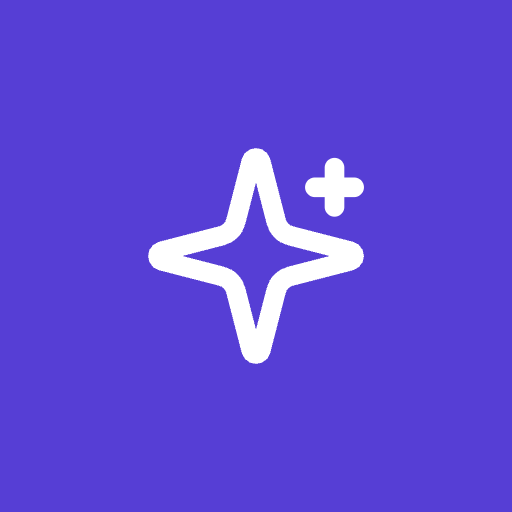
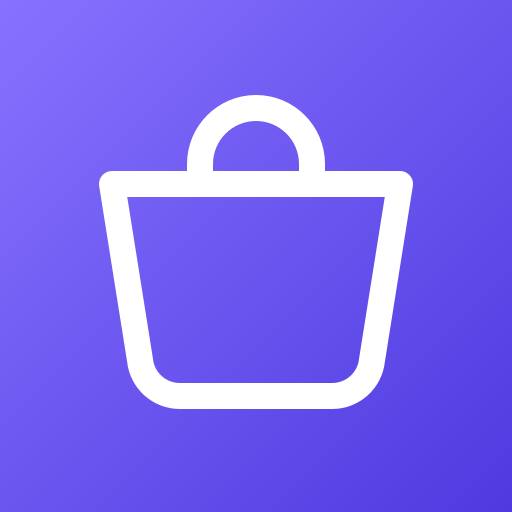
Apply SeeCen purple bag branding and refresh product imagery

diff --git a/index.html b/index.html
@@ -9,7 +9,7 @@
       content="SeeCen brings orders, inventory, shipping, and finances into one open-source workspace. Explore a sample store or build with the source."
     />
     <meta name="author" content="SeeCen" />
-    <meta name="theme-color" content="#5a44d6" />
+    <meta name="theme-color" content="#563ed5" />
 
     <meta property="og:type" content="website" />
     <meta property="og:url" content="https://seecen.seekerscentral.com/" />
@@ -18,7 +18,7 @@
       property="og:description"
       content="Orders, inventory, shipping, returns, finance, analytics, and an AI coach in one open-source workspace. Try the live demo — no signup, no API keys."
     />
-    <meta property="og:image" content="https://seecen.seekerscentral.com/landing/v2/hub-desktop.png" />
+    <meta property="og:image" content="https://seecen.seekerscentral.com/landing/v3/hub-desktop.png" />
 
     <meta name="twitter:card" content="summary_large_image" />
     <meta name="twitter:title" content="SeeCen | Open-source seller command center" />
@@ -26,9 +26,9 @@
       name="twitter:description"
       content="Orders, inventory, shipping, returns, finance, analytics, and an AI coach in one open-source workspace. Try the live demo — no signup, no API keys."
     />
-    <meta name="twitter:image" content="https://seecen.seekerscentral.com/landing/v2/hub-desktop.png" />
-    <link rel="icon" type="image/svg+xml" href="/favicon.svg" />
-    <link rel="apple-touch-icon" href="/apple-touch-icon.png" />
+    <meta name="twitter:image" content="https://seecen.seekerscentral.com/landing/v3/hub-desktop.png" />
+    <link rel="icon" type="image/svg+xml" href="/brand/seecen-mark-v1.svg" />
+    <link rel="apple-touch-icon" href="/brand/apple-touch-icon-v1.png" />
 
     <script type="application/ld+json">
       {
@@ -38,7 +38,7 @@
         "applicationCategory": "BusinessApplication",
         "operatingSystem": "Web",
         "url": "https://seecen.seekerscentral.com/",
-        "image": "https://seecen.seekerscentral.com/landing/v2/hub-desktop.png",
+        "image": "https://seecen.seekerscentral.com/landing/v3/hub-desktop.png",
         "description": "Open-source seller command center: orders, inventory, shipping, returns, finance, analytics, and an AI coach in one workspace.",
         "offers": { "@type": "Offer", "price": "0", "priceCurrency": "USD" },
         "license": "https://github.com/Draven047/SeeCen/blob/main/LICENSE"

diff --git a/src/components/layout/SellerOSHeader.tsx b/src/components/layout/SellerOSHeader.tsx
@@ -7,6 +7,7 @@ import { DemoModeControl } from './DemoModeControl';
 import { CommandPalette } from './CommandPalette';
 import { HelpSheet } from './HelpSheet';
 import { brand } from '@/config/brand';
+import { BrandMark } from '@/components/BrandMark';
 import { useIsMobile } from '@/hooks/use-mobile';
 import { cn } from '@/lib/utils';
 import { Menu, ShoppingBag } from 'lucide-react';
@@ -59,14 +60,15 @@ export function SellerOSHeader() {
   return (
     <header className="sticky top-0 z-30 flex h-[76px] items-center justify-between bg-[#f6f7f3]/90 px-3 backdrop-blur-xl md:px-6">
       {/* Left: Store info */}
-      <div className="flex items-center gap-2 min-w-0">
+      <div className="flex flex-1 items-center gap-2 min-w-0 pr-2">
         {isMobile ? (
           <button
             type="button"
             onClick={() => setStoreStatusOpen(true)}
             aria-label="Open store status"
-            className="flex min-h-[44px] items-center gap-2 rounded-full border border-black/[0.04] bg-white px-3 shadow-[0_14px_36px_-30px_rgba(15,23,42,0.65)]"
+            className="flex min-h-[44px] min-w-0 items-center gap-2 rounded-full border border-black/[0.04] bg-white pl-1.5 pr-3 shadow-[0_14px_36px_-30px_rgba(15,23,42,0.65)]"
           >
+            <BrandMark className="h-8 w-8 min-w-8" />
             <div className="flex items-center gap-1.5 min-w-0">
               <span className={cn(
                 'w-2 h-2 rounded-full shrink-0',
@@ -111,7 +113,7 @@ export function SellerOSHeader() {
       </div>
 
       {/* Right: actions */}
-      <div className="flex items-center gap-1.5">
+      <div className="flex shrink-0 items-center gap-1.5">
         {/* Pending orders badge */}
         {pendingOrders > 0 && (
           <div className="relative flex h-11 w-11 animate-pulse items-center justify-center rounded-full bg-white text-[#17191c] shadow-[0_14px_36px_-30px_rgba(15,23,42,0.65)]">
@@ -121,9 +123,9 @@ export function SellerOSHeader() {
             </span>
           </div>
         )}
-        <CommandPalette />
-        <HelpSheet />
-        <DemoModeControl />
+        {!isMobile && <CommandPalette />}
+        {!isMobile && <HelpSheet />}
+        <DemoModeControl compact={isMobile} />
         <NotificationsDropdown />
 
         {/* More menu — mobile only */}

diff --git a/src/components/layout/SellerOSSidebar.tsx b/src/components/layout/SellerOSSidebar.tsx
@@ -2,7 +2,7 @@ import { NavLink, useLocation } from 'react-router-dom';
 import { useTranslation } from 'react-i18next';
 import {
   ShoppingCart, Boxes, LayoutGrid, MessageSquareWarning, IndianRupee,
-  TrendingUp, Link2, UserCog, Store, Settings, ShoppingBag,
+  TrendingUp, Link2, UserCog, Store, Settings,
   ChevronLeft, BarChart3, Bot, UserCheck, Package, Truck, Users,
   RotateCcw, PackageCheck, AlertTriangle,
 } from 'lucide-react';
@@ -14,6 +14,7 @@ import { Tooltip, TooltipContent, TooltipTrigger } from '@/components/ui/tooltip
 import { useEffect, useState } from 'react';
 import { supabase } from '@/integrations/supabase/client';
 import { brand } from '@/config/brand';
+import { BrandMark } from '@/components/BrandMark';
 
 interface NavItem {
   icon: React.ElementType;
@@ -159,9 +160,9 @@ export function SellerOSSidebar() {
                 type="button"
                 onClick={toggle}
                 aria-label="Expand navigation"
-                className="flex h-11 w-11 items-center justify-center rounded-[18px] bg-[#17191c] text-white shadow-[0_14px_28px_-22px_rgba(0,0,0,0.9)] transition-colors hover:bg-[#2b2f35]"
+                className="flex h-11 w-11 items-center justify-center rounded-lg focus-visible:outline focus-visible:outline-2 focus-visible:outline-offset-4 focus-visible:outline-primary"
               >
-                <ShoppingBag className="h-5 w-5" />
+                <BrandMark className="h-11 w-11" />
               </button>
             </TooltipTrigger>
             <TooltipContent side="right">Expand</TooltipContent>
@@ -169,9 +170,7 @@ export function SellerOSSidebar() {
         ) : (
           <>
             <div className="flex min-w-0 items-center gap-3">
-              <div className="flex h-11 w-11 shrink-0 items-center justify-center rounded-[18px] bg-[#17191c] text-white shadow-[0_14px_28px_-22px_rgba(0,0,0,0.9)]">
-              <ShoppingBag className="h-5 w-5" />
-              </div>
+              <BrandMark className="h-11 w-11" />
               <div className="min-w-0">
                 <p className="truncate text-[15px] font-black leading-5 tracking-[-0.03em] text-[#17191c]">{brand.name}</p>
                 <p className="truncate text-[10px] font-bold uppercase tracking-[0.18em] text-[#9aa0a8]">{brand.tagline}</p>

diff --git a/src/components/layout/Sidebar.tsx b/src/components/layout/Sidebar.tsx
@@ -2,7 +2,7 @@ import { NavLink, useLocation } from 'react-router-dom';
 import {
   LayoutDashboard, ShoppingCart, Truck, Package, Boxes,
   RotateCcw, Users, UserCog, BarChart3, DollarSign, Store,
-  Link2, Settings, LogOut, ShoppingBag, ChevronLeft, PackageCheck,
+  Link2, Settings, LogOut, ChevronLeft, PackageCheck,
   Palette, ChevronDown, Bot, UserCheck,
 } from 'lucide-react';
 import { useAuth } from '@/contexts/AuthContext';
@@ -12,6 +12,7 @@ import { cn } from '@/lib/utils';
 import { Tooltip, TooltipContent, TooltipTrigger } from '@/components/ui/tooltip';
 import { useState, useEffect } from 'react';
 import { supabase } from '@/integrations/supabase/client';
+import { BrandMark } from '@/components/BrandMark';
 
 interface NavItem {
   icon: React.ElementType;
@@ -191,8 +192,8 @@ export function Sidebar() {
         {collapsed ? (
           <Tooltip delayDuration={0}>
             <TooltipTrigger asChild>
-              <button onClick={toggle} className="flex h-8 w-8 items-center justify-center rounded-lg bg-primary">
-                <ShoppingBag className="h-4 w-4 text-primary-foreground" />
+              <button onClick={toggle} aria-label="Expand sidebar" className="flex h-8 w-8 items-center justify-center rounded-lg">
+                <BrandMark className="h-8 w-8" />
               </button>
             </TooltipTrigger>
             <TooltipContent side="right">Expand sidebar</TooltipContent>
@@ -200,9 +201,7 @@ export function Sidebar() {
         ) : (
           <div className="flex flex-1 items-center justify-between">
             <div className="flex items-center gap-2.5">
-              <div className="flex h-8 w-8 items-center justify-center rounded-lg bg-primary">
-                <ShoppingBag className="h-4 w-4 text-primary-foreground" />
-              </div>
+              <BrandMark className="h-8 w-8" />
               <div>
                 <h1 className="text-sm font-bold text-foreground leading-none">SeeCen</h1>
                 <p className="text-[10px] text-sidebar-muted mt-0.5">SellerOS</p>

diff --git a/tests/brand.test.tsx b/tests/brand.test.tsx
@@ -1,0 +1,34 @@
+import { describe, expect, test } from 'bun:test';
+import { readFileSync } from 'node:fs';
+import { renderToStaticMarkup } from 'react-dom/server';
+import { BrandMark } from '../src/components/BrandMark';
+import { brand } from '../src/config/brand';
+
+describe('SeeCen brand identity', () => {
+  test('shared mark uses the reference purple gradient and white bag', () => {
+    const svg = readFileSync(new URL(`../public${brand.logo}`, import.meta.url), 'utf8');
+    expect(svg).toContain('#8772ff');
+    expect(svg).toContain('#4e3adf');
+    expect(svg).toContain('stroke="#fff"');
+    expect(svg).toContain('viewBox="0 0 128 128"');
+    expect(readFileSync(new URL('../public/favicon.svg', import.meta.url), 'utf8')).toBe(svg);
+  });
+
+  test('decorative and standalone marks have appropriate accessible names', () => {
+    expect(renderToStaticMarkup(<BrandMark />)).toContain('alt=""');
+    expect(renderToStaticMarkup(<BrandMark labelled />)).toContain(`alt="${brand.name} logo"`);
+    expect(renderToStaticMarkup(<BrandMark />)).toContain(`src="${brand.logo}"`);
+  });
+
+  test('installable icons have the expected dimensions', () => {
+    for (const [name, size] of [['apple-touch-icon', 180], ['pwa-192', 192], ['pwa-512', 512], ['pwa-maskable-512', 512]] as const) {
+      const png = readFileSync(new URL(`../public/brand/${name}-v1.png`, import.meta.url));
+      expect(png.subarray(1, 4).toString()).toBe('PNG');
+      expect(png.readUInt32BE(16)).toBe(size);
+      expect(png.readUInt32BE(20)).toBe(size);
+    }
+    const html = readFileSync(new URL('../index.html', import.meta.url), 'utf8');
+    expect(html).toContain(`href="${brand.logo}"`);
+    expect(html).toContain('/brand/apple-touch-icon-v1.png');
+  });
+});

diff --git a/vite.config.ts b/vite.config.ts
@@ -30,10 +30,10 @@ export default defineConfig(() => ({
         start_url: "/demo/dashboard",
         scope: "/",
         icons: [
-          { src: "/pwa-192.png", sizes: "192x192", type: "image/png" },
-          { src: "/pwa-512.png", sizes: "512x512", type: "image/png" },
+          { src: "/brand/pwa-192-v1.png", sizes: "192x192", type: "image/png" },
+          { src: "/brand/pwa-512-v1.png", sizes: "512x512", type: "image/png" },
           {
-            src: "/pwa-maskable-512.png",
+            src: "/brand/pwa-maskable-512-v1.png",
             sizes: "512x512",
             type: "image/png",
             purpose: "maskable",
@@ -43,14 +43,14 @@ export default defineConfig(() => ({
       workbox: {
         globPatterns: ["**/*.{js,css,html,svg,png,ico,woff2}"],
         // Landing media and optional 3D must not compete with the first app load.
-        globIgnores: ["**/ProductScene-*.js", "landing/v2/**", "landing-*.png"],
+        globIgnores: ["**/ProductScene-*.js", "landing/**", "landing-*.png"],
         runtimeCaching: [
           {
             urlPattern: ({ url, sameOrigin }) =>
-              sameOrigin && /^\/landing\/v2\/.*\.png$/.test(url.pathname),
+              sameOrigin && /^\/landing\/v3\/.*\.png$/.test(url.pathname),
             handler: "CacheFirst",
             options: {
-              cacheName: "seecen-landing-v2",
+              cacheName: "seecen-landing-v3",
               expiration: { maxEntries: 12, maxAgeSeconds: 30 * 24 * 60 * 60 },
               cacheableResponse: { statuses: [200] },
             },

diff --git a/src/pages/Landing.tsx b/src/pages/Landing.tsx
@@ -8,6 +8,7 @@ import {
   type ReactNode,
 } from "react";
 import { Link } from "react-router-dom";
+import { BrandMark } from "@/components/BrandMark";
 import { motion, useReducedMotion } from "framer-motion";
 import {
   ArrowDown,
@@ -454,6 +455,7 @@ export default function Landing() {
       </a>
       <header className="lp-header">
         <a href="#home" className="lp-brand" aria-label="SeeCen home">
+          <BrandMark className="lp-brand-mark" />
           SeeCen<span>.</span>
         </a>
         <nav className="lp-desktop-nav" aria-label="Landing navigation">
@@ -500,7 +502,7 @@ export default function Landing() {
               </button>
             </SheetTrigger>
             <SheetContent side="right" className="lp-menu">
-              <SheetTitle>SeeCen</SheetTitle>
+              <SheetTitle className="flex items-center gap-3"><BrandMark />SeeCen</SheetTitle>
               <nav aria-label="Mobile landing navigation">
                 {nav.map(([label, href]) => (
                   <SheetClose asChild key={href}>
@@ -691,6 +693,7 @@ export default function Landing() {
       </section>
       <footer className="lp-footer lp-container">
         <a className="lp-brand" href="#home">
+          <BrandMark className="lp-brand-mark" />
           SeeCen<span>.</span>
         </a>
         <p>Open-source seller operations.</p>

diff --git a/src/components/layout/DemoModeControl.tsx b/src/components/layout/DemoModeControl.tsx
@@ -13,7 +13,7 @@ import {
   PopoverTrigger,
 } from '@/components/ui/popover';
 
-export function DemoModeControl() {
+export function DemoModeControl({ compact = false }: { compact?: boolean }) {
   const { t, i18n } = useTranslation();
   const [confirming, setConfirming] = useState(false);
   const fileInputRef = useRef<HTMLInputElement>(null);
@@ -44,10 +44,11 @@ export function DemoModeControl() {
         <button
           type="button"
           aria-label="About demo mode"
-          className="flex min-h-[44px] items-center gap-1.5 rounded-full bg-white px-3.5 text-xs font-bold text-[#563ed5] shadow-[0_14px_36px_-30px_rgba(15,23,42,0.65)] transition-transform hover:scale-[1.02]"
+          title="About demo mode"
+          className={`flex min-h-[44px] items-center gap-1.5 rounded-full bg-white text-xs font-bold text-[#563ed5] shadow-[0_14px_36px_-30px_rgba(15,23,42,0.65)] transition-transform hover:scale-[1.02] ${compact ? 'w-11 justify-center' : 'px-3.5'}`}
         >
           <FlaskConical className="h-4 w-4" />
-          Demo
+          {!compact && 'Demo'}
         </button>
       </PopoverTrigger>
       <PopoverContent align="end" className="w-72 rounded-3xl border-black/[0.06] bg-white p-4 shadow-[0_24px_60px_-30px_rgba(15,23,42,0.45)]">

diff --git a/src/components/onboarding/FirstRunWizard.tsx b/src/components/onboarding/FirstRunWizard.tsx
@@ -1,5 +1,6 @@
 import { useState } from 'react';
-import { ArrowLeft, ArrowRight, Check, Download, Languages, Rocket, Sparkles, Store } from 'lucide-react';
+import { ArrowLeft, ArrowRight, Check, Download, Languages, Rocket, Store } from 'lucide-react';
+import { BrandMark } from '@/components/BrandMark';
 import { isDemoMode, setupMyStore, SETUP_MARKER_KEY } from '@/integrations/supabase/client';
 import { usePwaInstall } from '@/hooks/usePwaInstall';
 import { useTranslation } from 'react-i18next';
@@ -63,9 +64,7 @@ export function FirstRunWizard() {
       <div className="w-full max-w-md rounded-[28px] bg-white p-6 shadow-[0_40px_120px_-40px_rgba(0,0,0,0.8)] sm:p-8">
         {/* Brand mark */}
         <div className="mb-6 flex items-center gap-3">
-          <span className="flex h-11 w-11 items-center justify-center rounded-2xl bg-[#563ed5] text-white shadow-[0_0_26px_rgba(86,62,213,0.35)]">
-            <Sparkles className="h-5 w-5" />
-          </span>
+          <BrandMark className="h-11 w-11" />
           <div>
             <p className="text-base font-bold text-[#17191c]">{brand.name}</p>
             <p className="text-xs font-medium text-[#8b9098]">{t('Your store, on your computer')}</p>

diff --git a/src/components/layout/SellerOSMoreMenu.tsx b/src/components/layout/SellerOSMoreMenu.tsx
@@ -7,6 +7,8 @@ import {
 import { useAuth } from '@/contexts/AuthContext';
 import { StoreSwitcher } from './StoreSwitcher';
 import { cn } from '@/lib/utils';
+import { CommandPalette } from './CommandPalette';
+import { HelpSheet } from './HelpSheet';
 
 interface NavGroup {
   label: string;
@@ -89,7 +91,7 @@ export function SellerOSMoreMenu({ onClose }: { onClose: () => void }) {
       <div className="border-b border-black/[0.04] bg-white p-4">
         <StoreSwitcher collapsed={false} />
       </div>
-      <div className="flex-1 overflow-y-auto py-3">
+      <div className="min-h-0 flex-1 overflow-y-auto py-3">
         {menuGroups.map((group) => {
           const visible = group.items.filter(i => canAccess(role, i.path));
           if (visible.length === 0) return null;
@@ -117,7 +119,10 @@ export function SellerOSMoreMenu({ onClose }: { onClose: () => void }) {
           );
         })}
       </div>
-      <div className="border-t border-black/[0.04] bg-white p-3" />
+      <div className="flex shrink-0 items-center gap-2 border-t border-black/[0.04] bg-white p-3">
+        <CommandPalette />
+        <HelpSheet />
+      </div>
     </div>
   );
 }

diff --git a/src/pages/Auth.tsx b/src/pages/Auth.tsx
@@ -4,7 +4,8 @@ import { useAuth } from '@/contexts/AuthContext';
 import { Button } from '@/components/ui/button';
 import { Input } from '@/components/ui/input';
 import { Label } from '@/components/ui/label';
-import { ShoppingBag, Loader2 } from 'lucide-react';
+import { Loader2 } from 'lucide-react';
+import { BrandMark } from '@/components/BrandMark';
 import { toast } from 'sonner';
 import { getSafeErrorMessage } from '@/lib/errorUtils';
 
@@ -43,9 +44,7 @@ export default function Auth() {
     <div className="min-h-screen hero-gradient flex items-center justify-center p-4">
       <div className="w-full max-w-md">
         <div className="text-center mb-8">
-          <div className="w-16 h-16 rounded-2xl bg-primary/20 flex items-center justify-center mx-auto mb-4">
-            <ShoppingBag className="w-8 h-8 text-primary" />
-          </div>
+          <BrandMark className="mx-auto mb-4 h-16 w-16" />
           <h1 className="font-display text-3xl font-bold text-foreground">SeeCen</h1>
           <p className="text-muted-foreground mt-2">Seller command center</p>
         </div>

diff --git a/src/components/layout/Header.tsx b/src/components/layout/Header.tsx
@@ -9,6 +9,7 @@ import { useIsMobile } from '@/hooks/use-mobile';
 import { Plus } from 'lucide-react';
 import { Button } from '@/components/ui/button';
 import { cn } from '@/lib/utils';
+import { BrandMark } from '@/components/BrandMark';
 
 export function Header() {
   const { user, role } = useAuth();
@@ -48,7 +49,7 @@ export function Header() {
     <header className="sticky top-0 z-30 flex h-14 items-center justify-between border-b border-border bg-card/80 backdrop-blur-sm px-4 md:px-6">
       {/* Left: Breadcrumbs (desktop) or Page title (mobile) */}
       {isMobile ? (
-        <h2 className="text-sm font-semibold text-foreground truncate">SeeCen</h2>
+        <div className="flex min-w-0 items-center gap-2"><BrandMark className="h-8 w-8" /><h2 className="text-sm font-semibold text-foreground truncate">SeeCen</h2></div>
       ) : (
         <Breadcrumbs />
       )}
